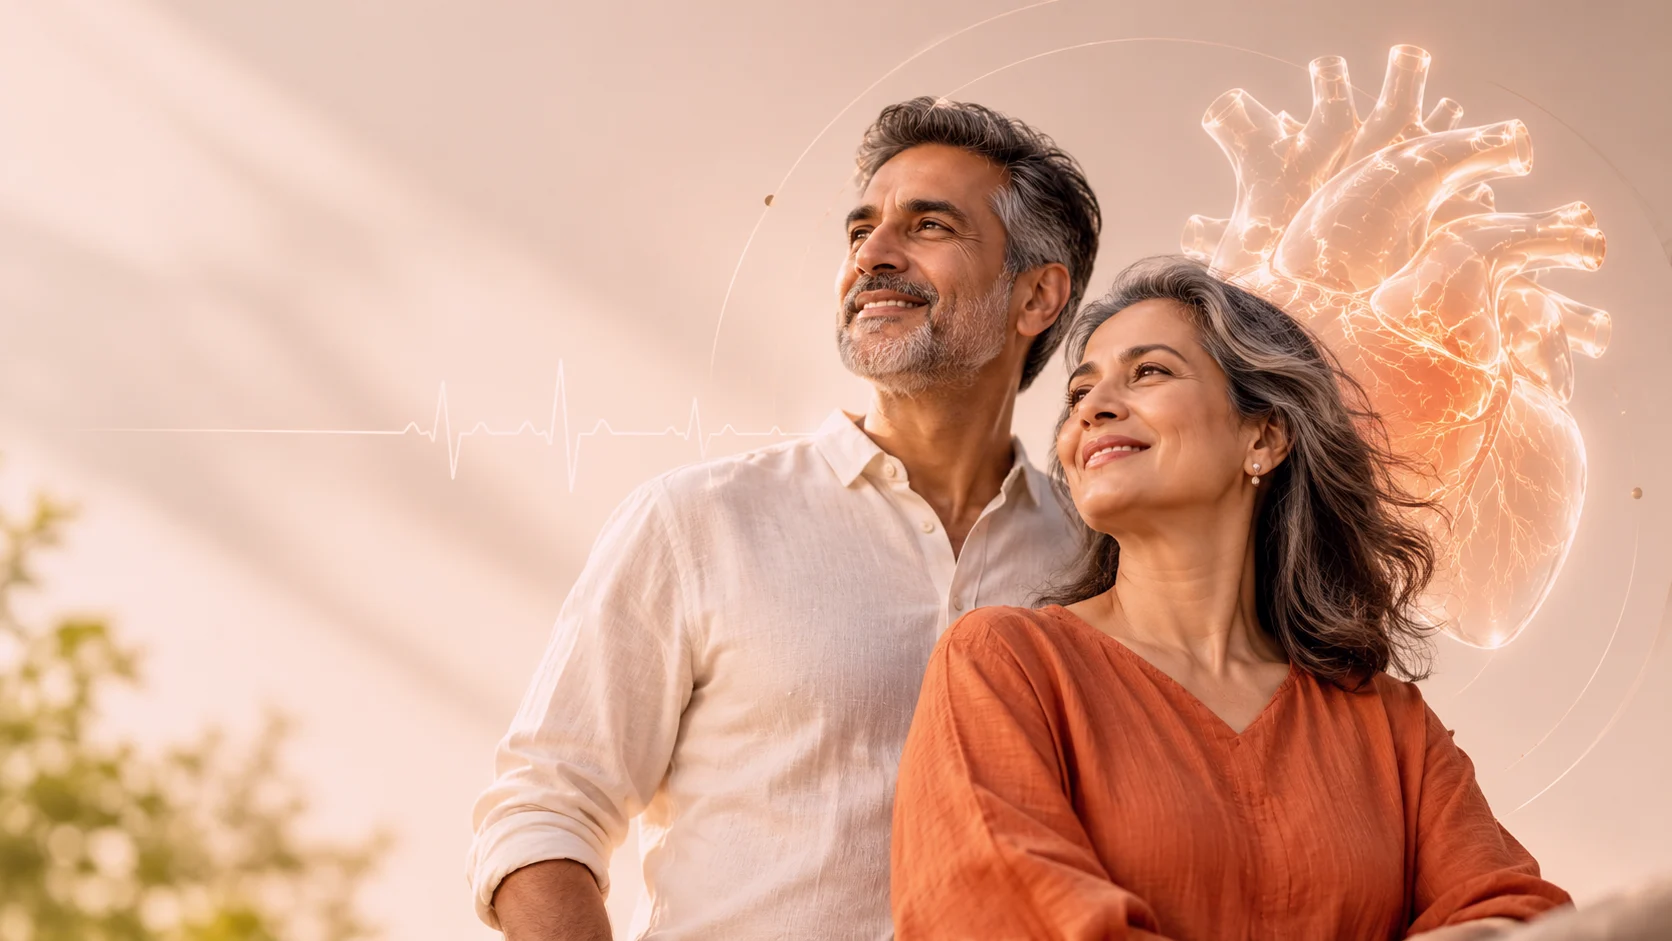
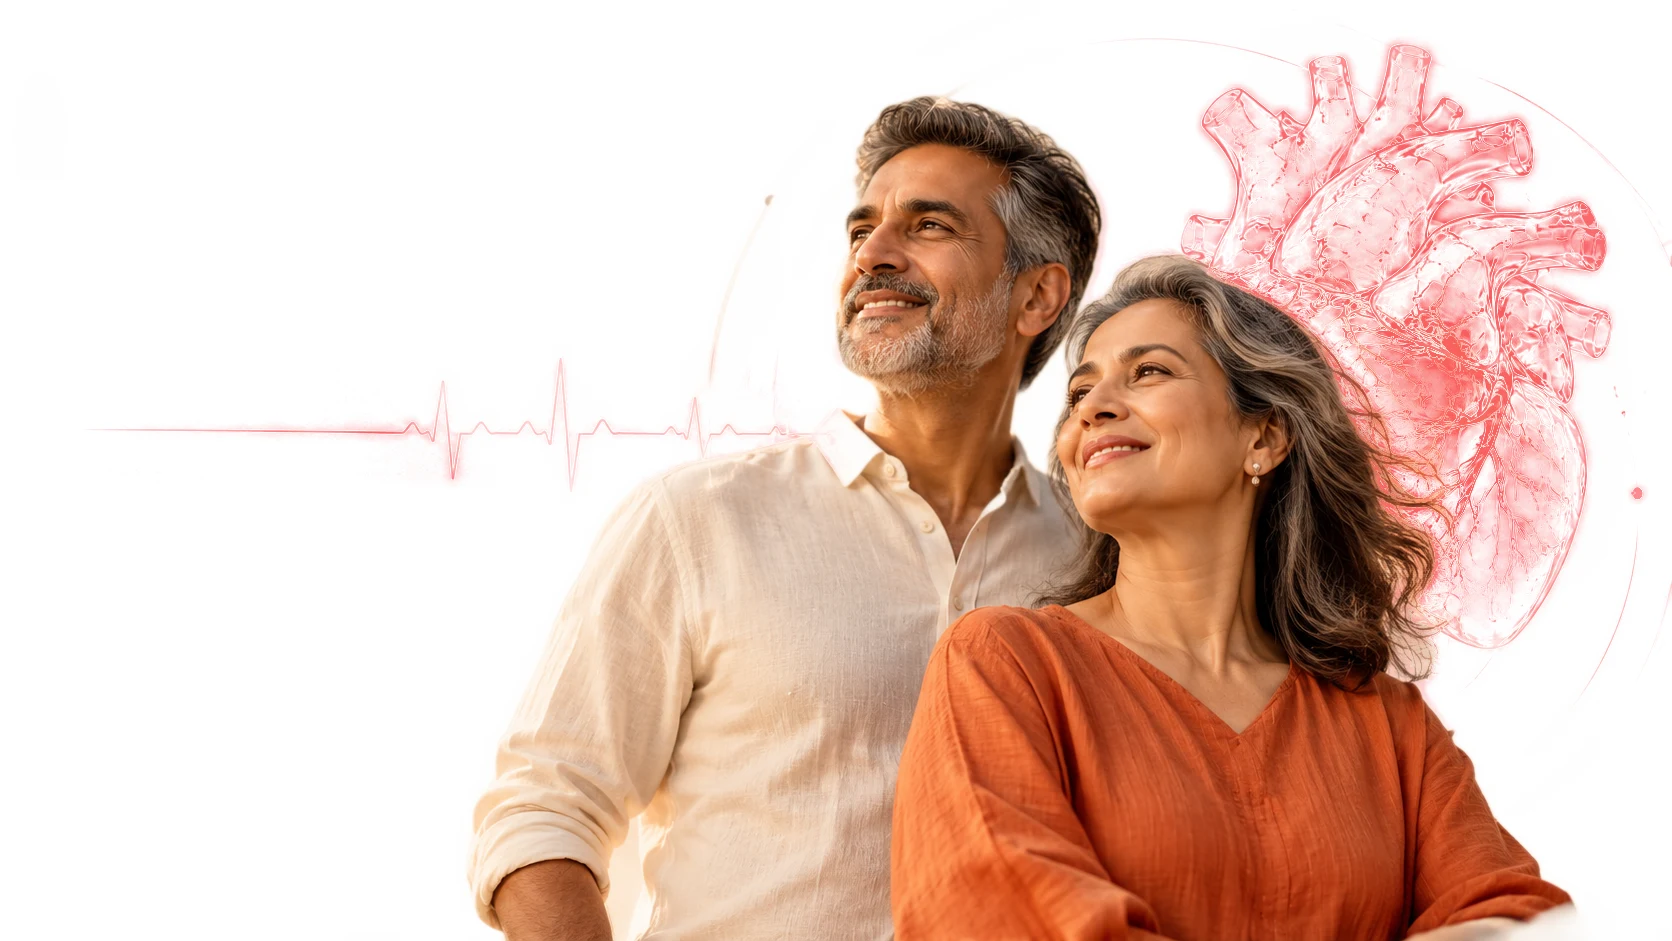
Hero: white background, soft red heart
Claude-Session: https://claude.ai/code/session_01PkeobWmfrChtD7SqVdFZLv

diff --git a/index.html b/index.html
@@ -752,12 +752,12 @@ a{color:#4A5163}a:hover{color:#E63E3E}
 .guardl b{font-weight:500;font-size:16px;color:#fff}.guardl span{font-size:15px;color:#A99F9C;margin-top:4px;line-height:1.55}
 @media (max-width:1000px){.guard{padding:72px 0}.guardg{grid-template-columns:minmax(0,1fr);gap:28px}.guardv{border-radius:24px}.guardp{font-size:16px}}
 /* couple hero */
-.leapcpl{background:#FBF3EC}
+.leapcpl{background:#fff}
 .leapcpl picture{position:absolute;inset:0;z-index:0;display:block}
 .leapcpl::after{display:none!important}
 .leapcpl .leapcp{object-position:72% 30%;animation:cpdrift 30s ease-in-out infinite alternate!important;transform-origin:70% 40%}
 @keyframes cpdrift{from{transform:scale(1.02)}to{transform:scale(1.07)}}
-.leapcpl::before{content:"";position:absolute;inset:0;z-index:1;pointer-events:none;background:linear-gradient(90deg,rgba(251,243,236,.92) 0%,rgba(251,243,236,.78) 30%,rgba(251,243,236,0) 52%),linear-gradient(0deg,rgba(251,243,236,.55) 0%,rgba(251,243,236,0) 22%)}
+.leapcpl::before{content:"";position:absolute;inset:0;z-index:1;pointer-events:none;background:linear-gradient(90deg,rgba(255,255,255,.9) 0%,rgba(255,255,255,.7) 30%,rgba(255,255,255,0) 50%)}
 .leapcpl .leaptop,.leapcpl .leapbot{z-index:2}
 .leapcpl .leaph{color:#1F2333}
 .leapcpl .leaph .grad{color:#FC5050!important;background:none!important;-webkit-text-fill-color:#FC5050!important;filter:none!important}
